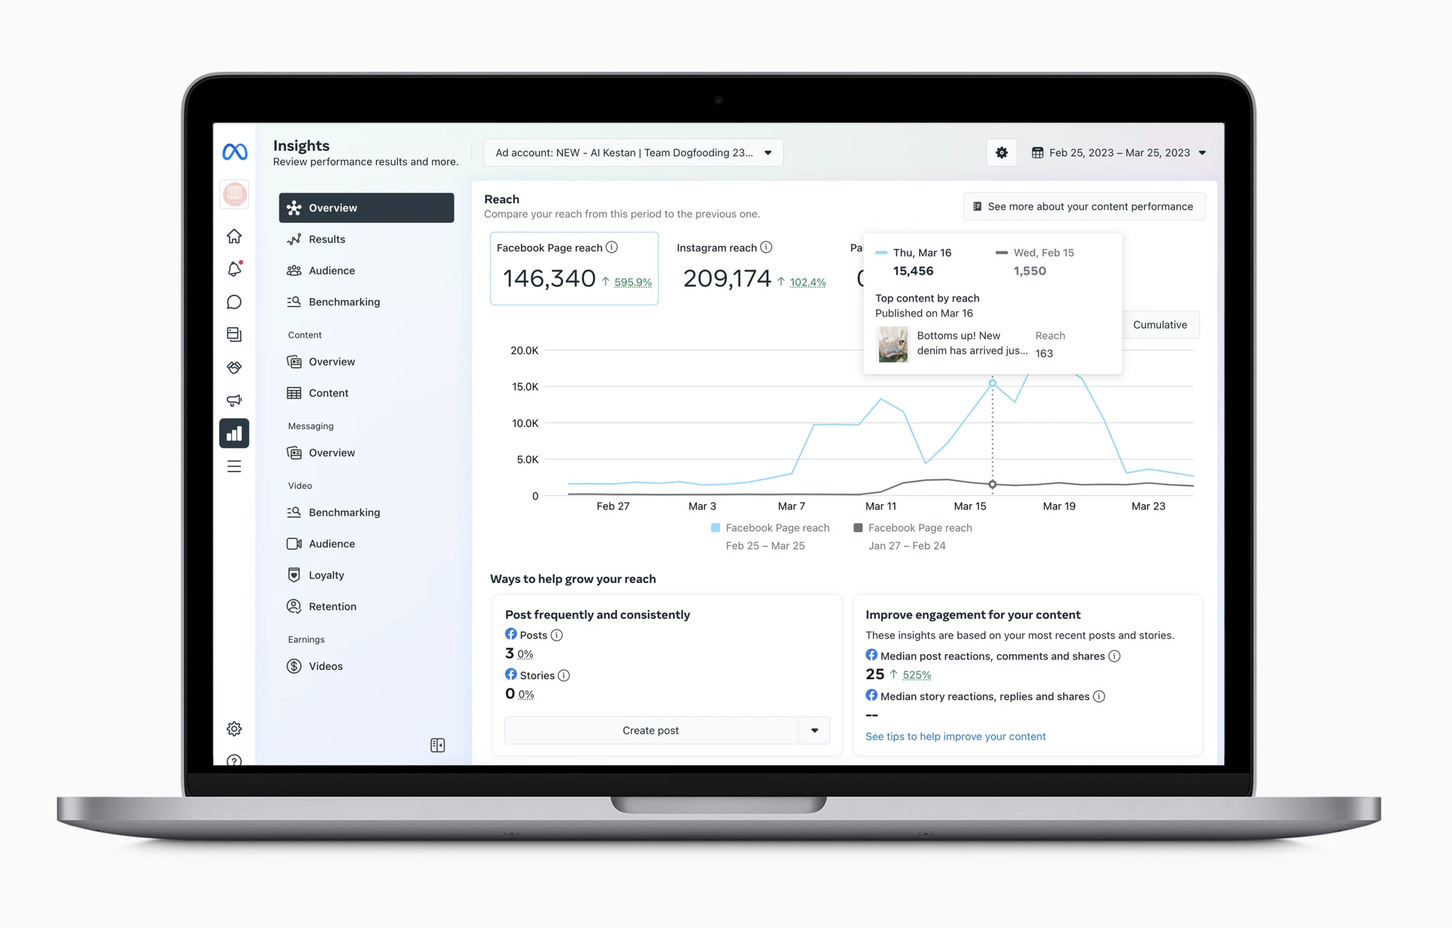
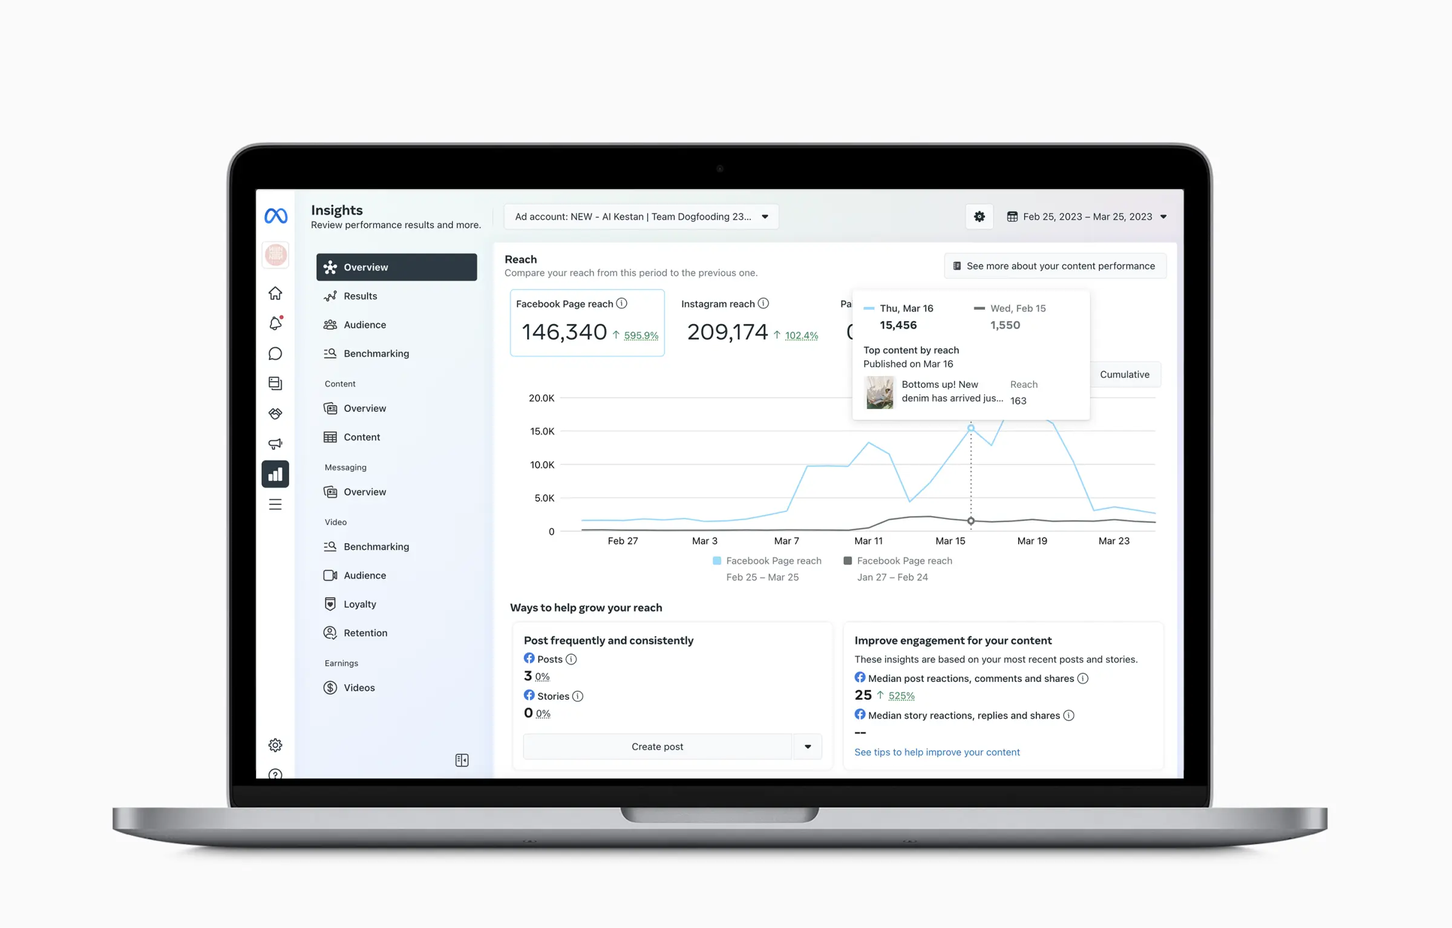
Update Meta case study images: header and challenge
Meta Header final.png → hero.webp (2400x1534)
Problem collage.png → problem-navigation.webp (2736x1360)

diff --git a/case-studies/meta/index.html b/case-studies/meta/index.html
@@ -8,7 +8,7 @@
 <link rel="canonical" href="https://calethompson.com/case-studies/meta/">
 <link rel="preconnect" href="https://fonts.googleapis.com">
 <link href="https://fonts.googleapis.com/css2?family=Host+Grotesk:ital,wght@0,400;0,500;0,600;0,700;0,800;1,400;1,600&family=Cormorant+Infant:ital,wght@0,400;0,500;0,600;0,700;1,400&display=swap" rel="stylesheet">
-<link rel="stylesheet" href="/assets/css/site.css?v=20260729k">
+<link rel="stylesheet" href="/assets/css/site.css?v=20260729l">
 
 <meta property="og:title" content="Meta Case Study — Making Data Usable | Cale Thompson">
 <meta property="og:description" content="How I aligned four product organizations around a shared insights strategy at Meta, turning fragmented dashboards into a unified, decision-support experience.">
@@ -36,7 +36,7 @@
   </div>
 </div>
 <div class="page" id="content">
-<div class="company-wordmark"><img src="/assets/img/logos/meta.svg" alt="Meta logo" width="60" height="40"></div><h1 class="cs-headline"><span data-en="Turning Business Insights into Better Decisions" data-es="Convirtiendo Insights de Negocio en Mejores Decisiones">Turning Business Insights into Better Decisions</span></h1><div class="role-meta"><div><b><span data-en="ROLE" data-es="PUESTO">ROLE</span></b> <span data-en="SR PRODUCT DESIGN MANAGER · REMOTE" data-es="GERENTE SR. DE DISEÑO DE PRODUCTO · REMOTO">SR PRODUCT DESIGN MANAGER · REMOTE</span></div><div><b><span data-en="YEARS" data-es="AÑOS">YEARS</span></b> <span data-en="2021–2023" data-es="2021–2023">2021–2023</span></div></div><div class="hero-img hero-img-primary"><img src="/assets/img/meta/hero.webp" alt="Meta Insights dashboard" width="1200" height="767" loading="eager"></div><p class="cs-lede"><span data-en="I brought fragmented teams together around a shared customer strategy, transforming disconnected dashboard efforts into a unified insights experience that helped businesses understand, decide, and act." data-es="Reuní a equipos fragmentados en torno a una estrategia de cliente compartida, transformando esfuerzos de dashboards desconectados en una experiencia de insights unificada que ayudó a los negocios a entender, decidir y actuar.">I brought fragmented teams together around a shared customer strategy, transforming disconnected dashboard efforts into a unified insights experience that helped businesses understand, decide, and act.</span></p><div class="cs-section"><div class="cs-section-label"><span data-en="The challenge" data-es="El desafío">The challenge</span></div><p><span data-en="Meta's Insights Group supported advertisers across multiple products, but each team approached insights differently. Teams built dashboards independently, creating fragmented experiences and inconsistent guidance for businesses trying to understand their performance. The opportunity wasn't to build more detailed dashboards based on available data, it was to create a shared strategy for helping businesses understand what happened, why it happened, and what to do next." data-es="El grupo de Insights de Meta apoyaba a anunciantes en múltiples productos, pero cada equipo abordaba los insights de forma distinta. Los equipos construían dashboards de manera independiente, creando experiencias fragmentadas y una guía inconsistente para los negocios que buscaban entender su desempeño. La oportunidad no era construir dashboards más detallados con los datos disponibles, era crear una estrategia compartida para ayudar a los negocios a entender qué pasó, por qué pasó y qué hacer después.">Meta's Insights Group supported advertisers across multiple products, but each team approached insights differently. Teams built dashboards independently, creating fragmented experiences and inconsistent guidance for businesses trying to understand their performance. The opportunity wasn't to build more detailed dashboards based on available data, it was to create a shared strategy for helping businesses understand what happened, why it happened, and what to do next.</span></p></div><div class="hero-img"><img src="/assets/img/meta/problem-navigation.webp" alt="Fragmented Meta Insights navigation across surfaces" width="1368" height="680" loading="lazy"></div><div class="cs-section"><div class="cs-section-label"><span data-en="My role as a leader" data-es="Mi rol como líder">My role as a leader</span></div><p><span data-en="I led a team of 15 designers across four product organizations while partnering with Product, Engineering, Research, and Data Science leaders to align strategy for Meta's Business Insights platform. By convening cross-functional leaders around a shared customer vision, I helped replace fragmented roadmaps with a common direction that accelerated execution and improved business outcomes." data-es="Lideré un equipo de 15 diseñadores en cuatro organizaciones de producto, colaborando con líderes de Producto, Ingeniería, Investigación y Ciencia de Datos para alinear la estrategia de la plataforma de Business Insights de Meta. Al convocar a líderes multifuncionales en torno a una visión de cliente compartida, ayudé a reemplazar roadmaps fragmentados con una dirección común que aceleró la ejecución y mejoró los resultados de negocio.">I led a team of 15 designers across four product organizations while partnering with Product, Engineering, Research, and Data Science leaders to align strategy for Meta's Business Insights platform. By convening cross-functional leaders around a shared customer vision, I helped replace fragmented roadmaps with a common direction that accelerated execution and improved business outcomes.</span></p></div><div class="cs-section-label"><span data-en="Strategic impact" data-es="Impacto estratégico">Strategic impact</span></div><div class="cs-section"><div class="cs-subhead"><span data-en="Aligned Cross-Functional Leaders Around a Shared Customer Strategy" data-es="Aliné a líderes multifuncionales en torno a una estrategia de cliente compartida">Aligned Cross-Functional Leaders Around a Shared Customer Strategy</span></div><p><span data-en="With teams building insights independently, I recognized that alignment required more than another planning exercise. I convened cross-functional leaders from Product, Design, Engineering, Research, and Data Science in a multi-day strategy sprint, bringing together customer insights, business priorities, and outside-industry examples to reframe how Meta should deliver value through insights. I then developed a simple framework centered on three customer questions: What happened? Why? What should I do next? — giving teams a shared language that aligned problems to solve, roadmap priorities, and accelerated execution." data-es="Con los equipos construyendo insights de forma independiente, reconocí que la alineación requería algo más que otro ejercicio de planeación. Convoqué a líderes multifuncionales de Producto, Diseño, Ingeniería, Investigación y Ciencia de Datos en un sprint de estrategia de varios días, reuniendo hallazgos de clientes, prioridades de negocio y ejemplos de otras industrias para replantear cómo Meta debía entregar valor a través de los insights. Luego desarrollé un marco simple centrado en tres preguntas del cliente: ¿Qué pasó? ¿Por qué? ¿Qué debo hacer después? Esto dio a los equipos un lenguaje compartido que alineaba los problemas a resolver, las prioridades del roadmap y aceleró la ejecución.">With teams building insights independently, I recognized that alignment required more than another planning exercise. I convened cross-functional leaders from Product, Design, Engineering, Research, and Data Science in a multi-day strategy sprint, bringing together customer insights, business priorities, and outside-industry examples to reframe how Meta should deliver value through insights. I then developed a simple framework centered on three customer questions: What happened? Why? What should I do next? — giving teams a shared language that aligned problems to solve, roadmap priorities, and accelerated execution.</span></p></div><div class="hero-img" style="background:var(--cream);"><img src="/assets/img/meta/vision-collage.webp" alt="Family of Apps Insights Visioning framework" width="1372" height="768" loading="lazy"></div><div class="stat-row"><div class="stat"><div class="stat-num">14/14</div><div class="stat-label"><span data-en="Roadmap initiatives met or exceeded goals" data-es="iniciativas del roadmap cumplieron o superaron sus metas">Roadmap initiatives met or exceeded goals</span></div></div></div><div class="cs-section"><div class="cs-subhead"><span data-en="Turned Strategy into Measurable Results" data-es="Convertí la estrategia en resultados medibles">Turned Strategy into Measurable Results</span></div><p><span data-en="Applied the framework to Meta Business Suite, where businesses track performance, helping the team redesign insights around customer next steps instead of metrics. The work connected insights directly to recommended actions, like creating an ad, significantly exceeding business goals." data-es="Apliqué el marco a Meta Business Suite, donde los negocios dan seguimiento a su desempeño, ayudando al equipo a rediseñar los insights en torno a los siguientes pasos del cliente en lugar de métricas. El trabajo conectó los insights directamente con acciones recomendadas, como crear un anuncio, superando significativamente las metas de negocio.">Applied the framework to Meta Business Suite, where businesses track performance, helping the team redesign insights around customer next steps instead of metrics. The work connected insights directly to recommended actions, like creating an ad, significantly exceeding business goals.</span></p></div><div class="hero-img"><img src="/assets/img/meta/insights-tab.webp" alt="Meta Insights tab" width="1368" height="768" loading="lazy"></div><div class="stat-row"><div class="stat"><div class="stat-num">210%</div><div class="stat-label"><span data-en="Exceeded incremental revenue goal" data-es="Meta de ingreso incremental superada">Exceeded incremental revenue goal</span></div></div></div><div class="cs-section"><div class="cs-subhead"><span data-en="Scaled the Framework Across Multiple Products" data-es="Escalé el marco a múltiples productos">Scaled the Framework Across Multiple Products</span></div><p><span data-en="Partnered with additional product teams, like the Business Messaging Insights team, to rapidly apply the same approach to pressing business challenges, proving the framework could guide diverse experiences while maintaining a consistent customer experience across Meta's business ecosystem." data-es="Colaboré con equipos de producto adicionales, como el equipo de Business Messaging Insights, para aplicar rápidamente el mismo enfoque a desafíos de negocio urgentes, demostrando que el marco podía guiar experiencias diversas manteniendo una experiencia de cliente consistente en todo el ecosistema de negocio de Meta.">Partnered with additional product teams, like the Business Messaging Insights team, to rapidly apply the same approach to pressing business challenges, proving the framework could guide diverse experiences while maintaining a consistent customer experience across Meta's business ecosystem.</span></p></div><div class="hero-img" style="background:var(--cream);"><img src="/assets/img/meta/business-messaging-insights.webp" alt="Business Messaging Insights dashboard" width="1368" height="876" loading="lazy"></div><div class="stat-row"><div class="stat"><div class="stat-num">185%</div><div class="stat-label"><span data-en="Exceeded monthly active businesses goal" data-es="Meta de negocios activos mensuales superada">Exceeded monthly active businesses goal</span></div></div></div><div class="leadership-block"><div class="cs-section-label"><span data-en="The outcome" data-es="El resultado">The outcome</span></div><p><span data-en="Shifted the organization from building dashboards to designing decision-support experiences, creating a shared foundation for teams to deliver insights that helped businesses understand performance, take action, and grow." data-es="Transformé la organización de construir dashboards a diseñar experiencias de apoyo a la decisión, creando una base compartida para que los equipos entregaran insights que ayudaran a los negocios a entender su desempeño, actuar y crecer.">Shifted the organization from building dashboards to designing decision-support experiences, creating a shared foundation for teams to deliver insights that helped businesses understand performance, take action, and grow.</span></p></div><a class="case-study-cta" style="margin-top:3.75rem;" href="/case-studies/foureyes/"><span data-en="Next Case Study" data-es="Siguiente Caso de Estudio">Next Case Study</span> <svg viewBox="0 0 24 24" fill="none" stroke="currentColor" stroke-width="2.2" stroke-linecap="round" stroke-linejoin="round" aria-hidden="true"><line x1="4" y1="12" x2="20" y2="12"/><polyline points="13 5 20 12 13 19"/></svg></a>
+<div class="company-wordmark"><img src="/assets/img/logos/meta.svg" alt="Meta logo" width="60" height="40"></div><h1 class="cs-headline"><span data-en="Turning Business Insights into Better Decisions" data-es="Convirtiendo Insights de Negocio en Mejores Decisiones">Turning Business Insights into Better Decisions</span></h1><div class="role-meta"><div><b><span data-en="ROLE" data-es="PUESTO">ROLE</span></b> <span data-en="SR PRODUCT DESIGN MANAGER · REMOTE" data-es="GERENTE SR. DE DISEÑO DE PRODUCTO · REMOTO">SR PRODUCT DESIGN MANAGER · REMOTE</span></div><div><b><span data-en="YEARS" data-es="AÑOS">YEARS</span></b> <span data-en="2021–2023" data-es="2021–2023">2021–2023</span></div></div><div class="hero-img hero-img-primary"><img src="/assets/img/meta/hero.webp" alt="Meta Insights dashboard" width="2400" height="1534" loading="eager"></div><p class="cs-lede"><span data-en="I brought fragmented teams together around a shared customer strategy, transforming disconnected dashboard efforts into a unified insights experience that helped businesses understand, decide, and act." data-es="Reuní a equipos fragmentados en torno a una estrategia de cliente compartida, transformando esfuerzos de dashboards desconectados en una experiencia de insights unificada que ayudó a los negocios a entender, decidir y actuar.">I brought fragmented teams together around a shared customer strategy, transforming disconnected dashboard efforts into a unified insights experience that helped businesses understand, decide, and act.</span></p><div class="cs-section"><div class="cs-section-label"><span data-en="The challenge" data-es="El desafío">The challenge</span></div><p><span data-en="Meta's Insights Group supported advertisers across multiple products, but each team approached insights differently. Teams built dashboards independently, creating fragmented experiences and inconsistent guidance for businesses trying to understand their performance. The opportunity wasn't to build more detailed dashboards based on available data, it was to create a shared strategy for helping businesses understand what happened, why it happened, and what to do next." data-es="El grupo de Insights de Meta apoyaba a anunciantes en múltiples productos, pero cada equipo abordaba los insights de forma distinta. Los equipos construían dashboards de manera independiente, creando experiencias fragmentadas y una guía inconsistente para los negocios que buscaban entender su desempeño. La oportunidad no era construir dashboards más detallados con los datos disponibles, era crear una estrategia compartida para ayudar a los negocios a entender qué pasó, por qué pasó y qué hacer después.">Meta's Insights Group supported advertisers across multiple products, but each team approached insights differently. Teams built dashboards independently, creating fragmented experiences and inconsistent guidance for businesses trying to understand their performance. The opportunity wasn't to build more detailed dashboards based on available data, it was to create a shared strategy for helping businesses understand what happened, why it happened, and what to do next.</span></p></div><div class="hero-img"><img src="/assets/img/meta/problem-navigation.webp" alt="Fragmented Meta Insights navigation across surfaces" width="2736" height="1360" loading="lazy"></div><div class="cs-section"><div class="cs-section-label"><span data-en="My role as a leader" data-es="Mi rol como líder">My role as a leader</span></div><p><span data-en="I led a team of 15 designers across four product organizations while partnering with Product, Engineering, Research, and Data Science leaders to align strategy for Meta's Business Insights platform. By convening cross-functional leaders around a shared customer vision, I helped replace fragmented roadmaps with a common direction that accelerated execution and improved business outcomes." data-es="Lideré un equipo de 15 diseñadores en cuatro organizaciones de producto, colaborando con líderes de Producto, Ingeniería, Investigación y Ciencia de Datos para alinear la estrategia de la plataforma de Business Insights de Meta. Al convocar a líderes multifuncionales en torno a una visión de cliente compartida, ayudé a reemplazar roadmaps fragmentados con una dirección común que aceleró la ejecución y mejoró los resultados de negocio.">I led a team of 15 designers across four product organizations while partnering with Product, Engineering, Research, and Data Science leaders to align strategy for Meta's Business Insights platform. By convening cross-functional leaders around a shared customer vision, I helped replace fragmented roadmaps with a common direction that accelerated execution and improved business outcomes.</span></p></div><div class="cs-section-label"><span data-en="Strategic impact" data-es="Impacto estratégico">Strategic impact</span></div><div class="cs-section"><div class="cs-subhead"><span data-en="Aligned Cross-Functional Leaders Around a Shared Customer Strategy" data-es="Aliné a líderes multifuncionales en torno a una estrategia de cliente compartida">Aligned Cross-Functional Leaders Around a Shared Customer Strategy</span></div><p><span data-en="With teams building insights independently, I recognized that alignment required more than another planning exercise. I convened cross-functional leaders from Product, Design, Engineering, Research, and Data Science in a multi-day strategy sprint, bringing together customer insights, business priorities, and outside-industry examples to reframe how Meta should deliver value through insights. I then developed a simple framework centered on three customer questions: What happened? Why? What should I do next? — giving teams a shared language that aligned problems to solve, roadmap priorities, and accelerated execution." data-es="Con los equipos construyendo insights de forma independiente, reconocí que la alineación requería algo más que otro ejercicio de planeación. Convoqué a líderes multifuncionales de Producto, Diseño, Ingeniería, Investigación y Ciencia de Datos en un sprint de estrategia de varios días, reuniendo hallazgos de clientes, prioridades de negocio y ejemplos de otras industrias para replantear cómo Meta debía entregar valor a través de los insights. Luego desarrollé un marco simple centrado en tres preguntas del cliente: ¿Qué pasó? ¿Por qué? ¿Qué debo hacer después? Esto dio a los equipos un lenguaje compartido que alineaba los problemas a resolver, las prioridades del roadmap y aceleró la ejecución.">With teams building insights independently, I recognized that alignment required more than another planning exercise. I convened cross-functional leaders from Product, Design, Engineering, Research, and Data Science in a multi-day strategy sprint, bringing together customer insights, business priorities, and outside-industry examples to reframe how Meta should deliver value through insights. I then developed a simple framework centered on three customer questions: What happened? Why? What should I do next? — giving teams a shared language that aligned problems to solve, roadmap priorities, and accelerated execution.</span></p></div><div class="hero-img" style="background:var(--cream);"><img src="/assets/img/meta/vision-collage.webp" alt="Family of Apps Insights Visioning framework" width="1372" height="768" loading="lazy"></div><div class="stat-row"><div class="stat"><div class="stat-num">14/14</div><div class="stat-label"><span data-en="Roadmap initiatives met or exceeded goals" data-es="iniciativas del roadmap cumplieron o superaron sus metas">Roadmap initiatives met or exceeded goals</span></div></div></div><div class="cs-section"><div class="cs-subhead"><span data-en="Turned Strategy into Measurable Results" data-es="Convertí la estrategia en resultados medibles">Turned Strategy into Measurable Results</span></div><p><span data-en="Applied the framework to Meta Business Suite, where businesses track performance, helping the team redesign insights around customer next steps instead of metrics. The work connected insights directly to recommended actions, like creating an ad, significantly exceeding business goals." data-es="Apliqué el marco a Meta Business Suite, donde los negocios dan seguimiento a su desempeño, ayudando al equipo a rediseñar los insights en torno a los siguientes pasos del cliente en lugar de métricas. El trabajo conectó los insights directamente con acciones recomendadas, como crear un anuncio, superando significativamente las metas de negocio.">Applied the framework to Meta Business Suite, where businesses track performance, helping the team redesign insights around customer next steps instead of metrics. The work connected insights directly to recommended actions, like creating an ad, significantly exceeding business goals.</span></p></div><div class="hero-img"><img src="/assets/img/meta/insights-tab.webp" alt="Meta Insights tab" width="1368" height="768" loading="lazy"></div><div class="stat-row"><div class="stat"><div class="stat-num">210%</div><div class="stat-label"><span data-en="Exceeded incremental revenue goal" data-es="Meta de ingreso incremental superada">Exceeded incremental revenue goal</span></div></div></div><div class="cs-section"><div class="cs-subhead"><span data-en="Scaled the Framework Across Multiple Products" data-es="Escalé el marco a múltiples productos">Scaled the Framework Across Multiple Products</span></div><p><span data-en="Partnered with additional product teams, like the Business Messaging Insights team, to rapidly apply the same approach to pressing business challenges, proving the framework could guide diverse experiences while maintaining a consistent customer experience across Meta's business ecosystem." data-es="Colaboré con equipos de producto adicionales, como el equipo de Business Messaging Insights, para aplicar rápidamente el mismo enfoque a desafíos de negocio urgentes, demostrando que el marco podía guiar experiencias diversas manteniendo una experiencia de cliente consistente en todo el ecosistema de negocio de Meta.">Partnered with additional product teams, like the Business Messaging Insights team, to rapidly apply the same approach to pressing business challenges, proving the framework could guide diverse experiences while maintaining a consistent customer experience across Meta's business ecosystem.</span></p></div><div class="hero-img" style="background:var(--cream);"><img src="/assets/img/meta/business-messaging-insights.webp" alt="Business Messaging Insights dashboard" width="1368" height="876" loading="lazy"></div><div class="stat-row"><div class="stat"><div class="stat-num">185%</div><div class="stat-label"><span data-en="Exceeded monthly active businesses goal" data-es="Meta de negocios activos mensuales superada">Exceeded monthly active businesses goal</span></div></div></div><div class="leadership-block"><div class="cs-section-label"><span data-en="The outcome" data-es="El resultado">The outcome</span></div><p><span data-en="Shifted the organization from building dashboards to designing decision-support experiences, creating a shared foundation for teams to deliver insights that helped businesses understand performance, take action, and grow." data-es="Transformé la organización de construir dashboards a diseñar experiencias de apoyo a la decisión, creando una base compartida para que los equipos entregaran insights que ayudaran a los negocios a entender su desempeño, actuar y crecer.">Shifted the organization from building dashboards to designing decision-support experiences, creating a shared foundation for teams to deliver insights that helped businesses understand performance, take action, and grow.</span></p></div><a class="case-study-cta" style="margin-top:3.75rem;" href="/case-studies/foureyes/"><span data-en="Next Case Study" data-es="Siguiente Caso de Estudio">Next Case Study</span> <svg viewBox="0 0 24 24" fill="none" stroke="currentColor" stroke-width="2.2" stroke-linecap="round" stroke-linejoin="round" aria-hidden="true"><line x1="4" y1="12" x2="20" y2="12"/><polyline points="13 5 20 12 13 19"/></svg></a>
 </div>
 <div id="siteFooter">
   <div class="footer-block">
@@ -47,6 +47,6 @@
     </div>
   </div>
 </div>
-<script src="/assets/js/site.js?v=20260729k"></script>
+<script src="/assets/js/site.js?v=20260729l"></script>
 </body>
 </html>
